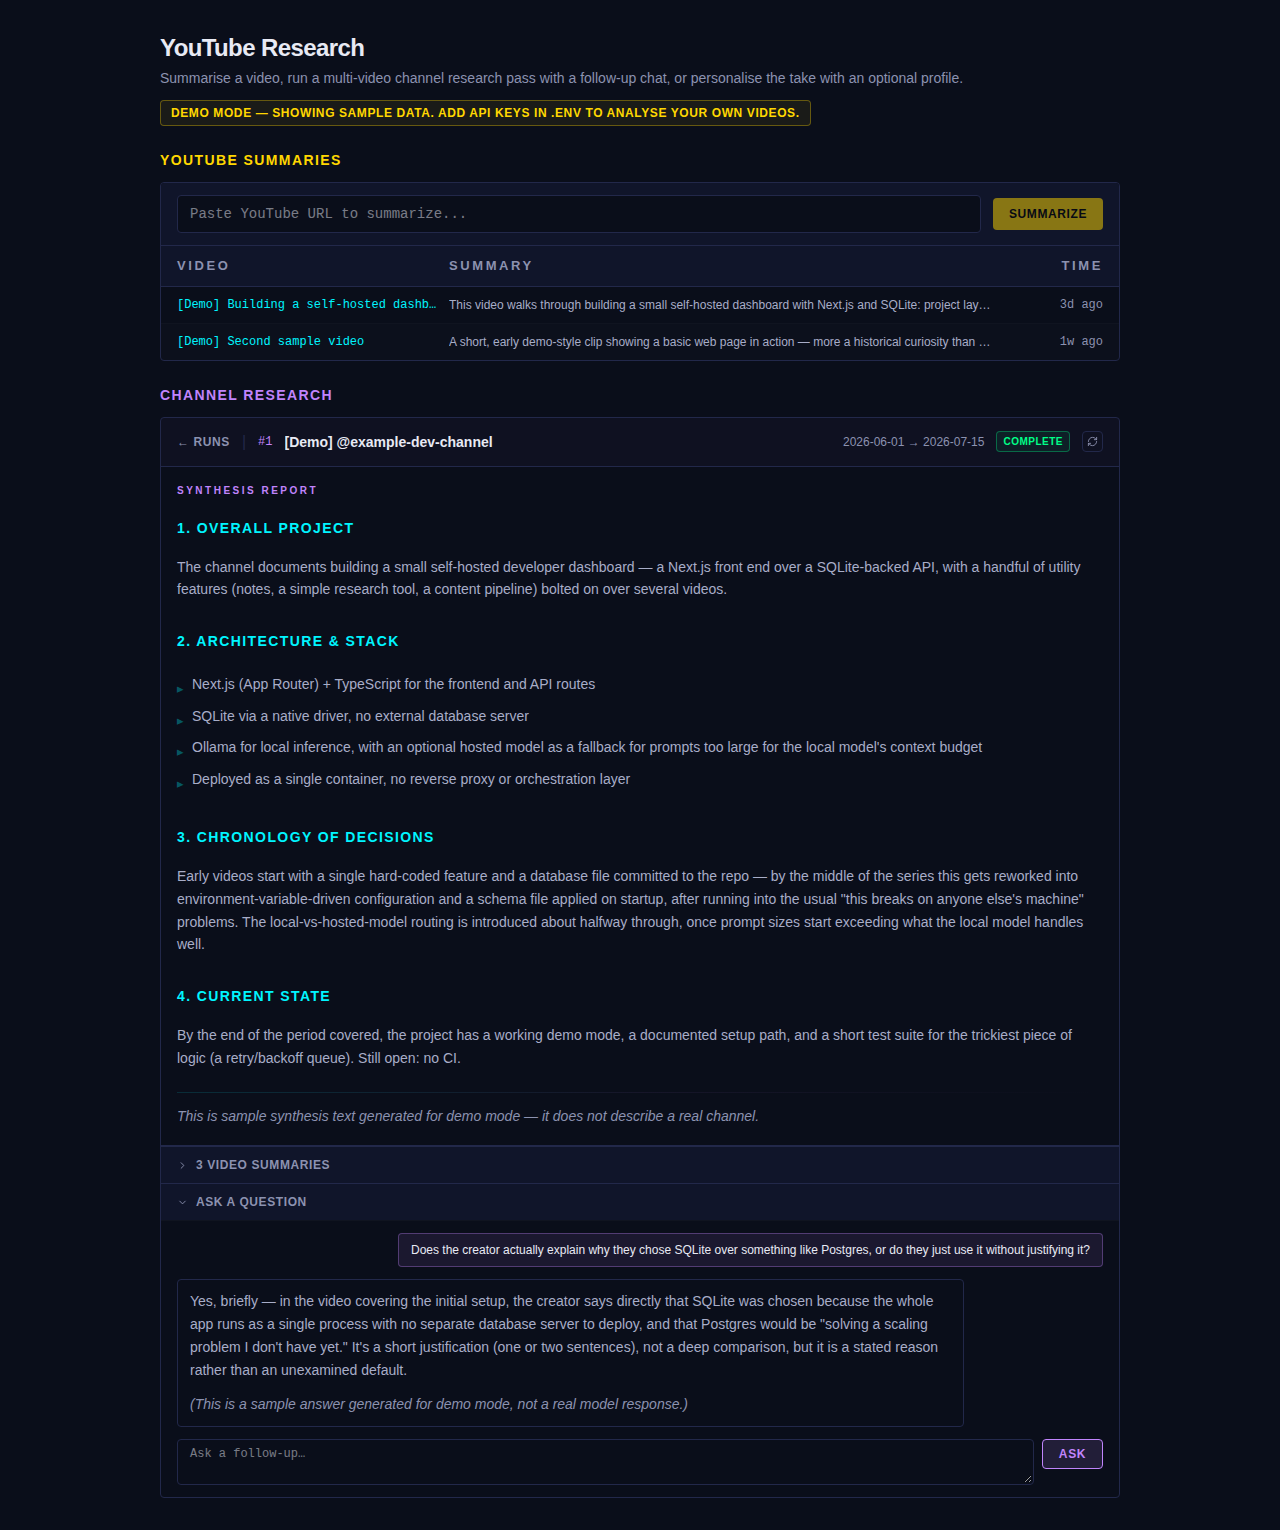
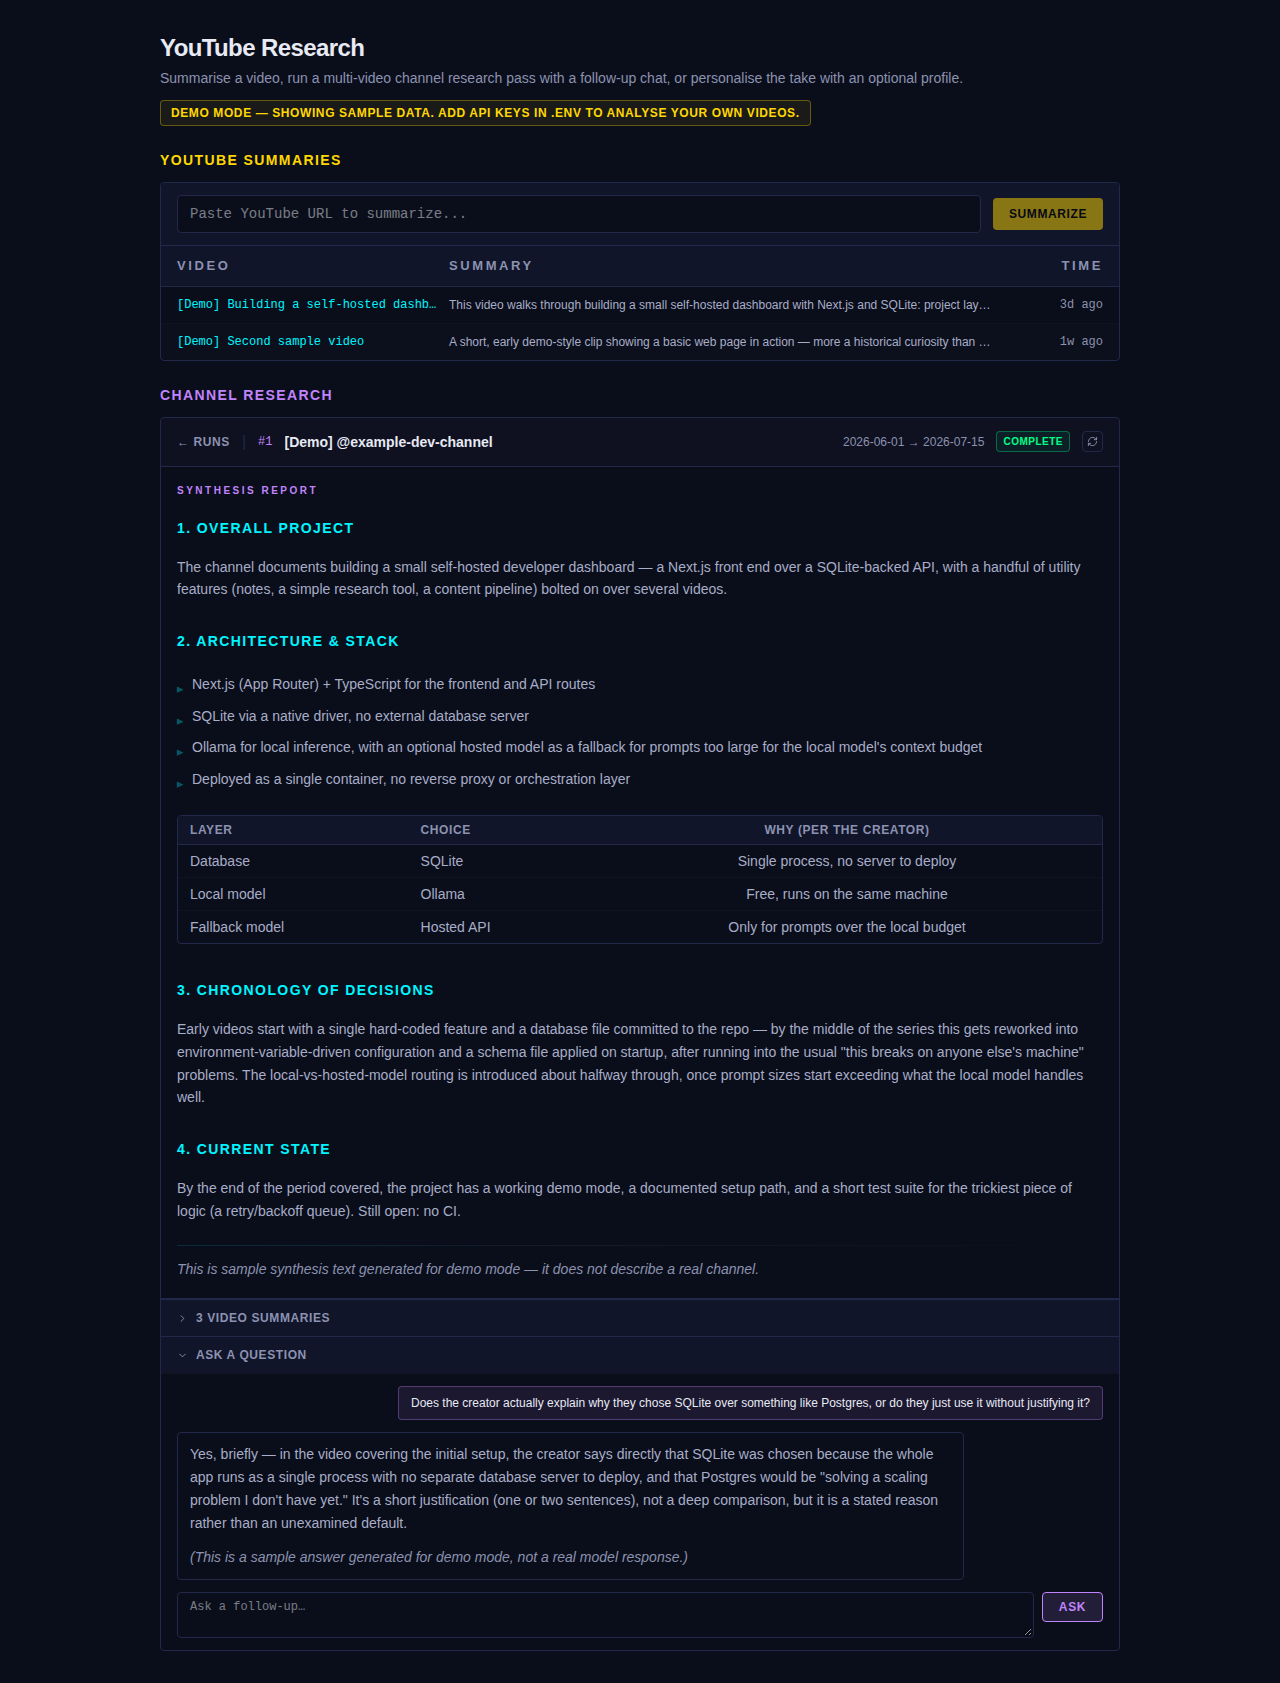
Harden DATA_DIR creation, add GFM table support to MarkdownBlock
- queue-db.ts and analysis-cache.ts's read/delete paths had no directory
  creation of their own (only db.ts and analysis-cache.ts's write path
  did) — they worked in practice because dbPath/STORE_PATHS always derive
  from db.ts, which creates it as a module-load side effect, but that's an
  implicit assumption, not a guarantee. Each now creates its own target
  directory (recursive, idempotent) before opening anything, independent
  of import order. instrumentation.ts also now creates DATA_DIR explicitly
  as the first thing it does on every server start, before the DEMO_MODE
  branch or the queue poller.
- MarkdownBlock didn't render GFM tables — pipe syntax just showed up as
  raw text. Added components/markdown-table.ts, a pure parser (header +
  separator-row detection, alignment markers, escaped pipes, short/long
  row normalisation) with 11 unit tests, since MarkdownBlock.tsx itself
  can't be imported into a plain node:test file (JSX isn't transformed by
  --experimental-strip-types). MarkdownBlock renders the result as a
  <table> in an overflow-x-auto wrapper, styled for the dark theme —
  verified at 390px that the wrapper scrolls internally without the page
  itself overflowing.
- Added a small table to the demo seed synthesis so the feature shows up
  in demo mode without configuring anything.
- Re-checked the Channel Research channel input for the literal-value-vs-
  placeholder bug from the previous pass — already fixed, no literal value
[…]

Changed region(s): [[0.125, 0.0, 0.875, 0.983], [0.6562, 0.3686, 0.8438, 0.3993], [0.8125, 0.9216, 0.875, 0.983]]

diff --git a/components/markdown-table.test.ts b/components/markdown-table.test.ts
@@ -1,0 +1,98 @@
+import { test } from 'node:test';
+import assert from 'node:assert/strict';
+import { parseGfmTable } from './markdown-table.ts';
+
+test('parses a basic GFM table with leading/trailing pipes', () => {
+  const lines = [
+    '| Name | Role |',
+    '| --- | --- |',
+    '| Ada | Engineer |',
+    '| Grace | Admiral |',
+  ];
+  const table = parseGfmTable(lines, 0);
+  assert.ok(table);
+  assert.deepEqual(table.header, ['Name', 'Role']);
+  assert.deepEqual(table.aligns, [null, null]);
+  assert.deepEqual(table.rows, [['Ada', 'Engineer'], ['Grace', 'Admiral']]);
+  assert.equal(table.lineCount, 4);
+});
+
+test('parses a table without leading/trailing pipes', () => {
+  const lines = ['Name | Role', '--- | ---', 'Ada | Engineer'];
+  const table = parseGfmTable(lines, 0);
+  assert.ok(table);
+  assert.deepEqual(table.header, ['Name', 'Role']);
+  assert.deepEqual(table.rows, [['Ada', 'Engineer']]);
+});
+
+test('reads column alignment markers', () => {
+  const lines = [
+    '| Left | Center | Right |',
+    '| :--- | :---: | ---: |',
+    '| a | b | c |',
+  ];
+  const table = parseGfmTable(lines, 0);
+  assert.ok(table);
+  assert.deepEqual(table.aligns, ['left', 'center', 'right']);
+});
+
+test('stops at the first blank line', () => {
+  const lines = [
+    '| A | B |',
+    '| --- | --- |',
+    '| 1 | 2 |',
+    '',
+    '| C | D |',
+  ];
+  const table = parseGfmTable(lines, 0);
+  assert.ok(table);
+  assert.equal(table.rows.length, 1);
+  assert.equal(table.lineCount, 3); // header + separator + one row, not the blank line
+});
+
+test('stops at the first non-pipe line', () => {
+  const lines = ['| A | B |', '| --- | --- |', '| 1 | 2 |', 'not a table row'];
+  const table = parseGfmTable(lines, 0);
+  assert.ok(table);
+  assert.equal(table.rows.length, 1);
+});
+
+test('pads short rows and drops extra cells to match the header width', () => {
+  const lines = [
+    '| A | B | C |',
+    '| --- | --- | --- |',
+    '| only-one |',
+    '| 1 | 2 | 3 | 4 | 5 |',
+  ];
+  const table = parseGfmTable(lines, 0);
+  assert.ok(table);
+  assert.deepEqual(table.rows[0], ['only-one', '', '']);
+  assert.deepEqual(table.rows[1], ['1', '2', '3']);
+});
+
+test('honours an escaped pipe inside a cell', () => {
+  const lines = ['| A | B |', '| --- | --- |', '| a\\|b | c |'];
+  const table = parseGfmTable(lines, 0);
+  assert.ok(table);
+  assert.deepEqual(table.rows[0], ['a|b', 'c']);
+});
+
+test('returns null when there is no separator row', () => {
+  const lines = ['| A | B |', 'not a separator', '| 1 | 2 |'];
+  assert.equal(parseGfmTable(lines, 0), null);
+});
+
+test('returns null when the separator column count does not match the header', () => {
+  const lines = ['| A | B | C |', '| --- | --- |', '| 1 | 2 | 3 |'];
+  assert.equal(parseGfmTable(lines, 0), null);
+});
+
+test('returns null for a bare horizontal-rule line (not a 2-line table header+separator)', () => {
+  const lines = ['---', 'some text'];
+  assert.equal(parseGfmTable(lines, 0), null);
+});
+
+test('returns null at the end of the input with no room for a separator row', () => {
+  const lines = ['| A | B |'];
+  assert.equal(parseGfmTable(lines, 0), null);
+});

diff --git a/components/markdown-table.ts b/components/markdown-table.ts
@@ -1,0 +1,93 @@
+/**
+ * GFM table detection/parsing — a pure, dependency-free function so it can
+ * be unit tested directly (MarkdownBlock.tsx can't be imported from a plain
+ * node:test file, since this repo's test runner strips TypeScript types but
+ * doesn't transform JSX).
+ */
+
+export type ColumnAlign = 'left' | 'center' | 'right' | null;
+
+export interface ParsedTable {
+  header: string[];
+  aligns: ColumnAlign[];
+  rows: string[][];
+  /** Number of source lines consumed, starting at the index passed in. */
+  lineCount: number;
+}
+
+/** Splits a pipe-delimited row into trimmed cells, honouring `\|` as an escaped, literal pipe. */
+function splitRow(line: string): string[] {
+  let s = line.trim();
+  if (s.startsWith('|')) s = s.slice(1);
+  if (s.endsWith('|') && !s.endsWith('\\|')) s = s.slice(0, -1);
+
+  const cells: string[] = [];
+  let cur = '';
+  for (let i = 0; i < s.length; i++) {
+    const c = s[i];
+    if (c === '\\' && s[i + 1] === '|') {
+      cur += '|';
+      i++;
+      continue;
+    }
+    if (c === '|') {
+      cells.push(cur.trim());
+      cur = '';
+      continue;
+    }
+    cur += c;
+  }
+  cells.push(cur.trim());
+  return cells;
+}
+
+function alignFor(cell: string): ColumnAlign {
+  const left = cell.startsWith(':');
+  const right = cell.endsWith(':');
+  if (left && right) return 'center';
+  if (right) return 'right';
+  if (left) return 'left';
+  return null;
+}
+
+function isSeparatorRow(line: string): boolean {
+  const cells = splitRow(line);
+  if (cells.length === 0) return false;
+  return cells.every((c) => /^:?-+:?$/.test(c));
+}
+
+/**
+ * Detects a GFM table starting at lines[startIndex] (the header row), valid
+ * only if lines[startIndex + 1] is a matching separator row (e.g. `| --- |
+ * :--- | ---: |`) with the same column count as the header. Returns null if
+ * there's no table there. Body rows are collected until a blank line or a
+ * line with no pipe at all; each is normalised to the header's column count
+ * (missing trailing cells become '', extra cells are dropped — matches
+ * common GFM renderer behaviour).
+ */
+export function parseGfmTable(lines: string[], startIndex: number): ParsedTable | null {
+  const headerLine = lines[startIndex];
+  const sepLine = lines[startIndex + 1];
+  if (headerLine == null || sepLine == null) return null;
+  if (!headerLine.includes('|')) return null;
+  if (!isSeparatorRow(sepLine)) return null;
+
+  const header = splitRow(headerLine);
+  const sepCells = splitRow(sepLine);
+  if (header.length === 0 || sepCells.length !== header.length) return null;
+
+  const aligns = sepCells.map(alignFor);
+
+  const rows: string[][] = [];
+  let i = startIndex + 2;
+  while (i < lines.length) {
+    const line = lines[i];
+    if (line.trim() === '' || !line.includes('|')) break;
+    const cells = splitRow(line).slice(0, header.length);
+    while (cells.length < header.length) cells.push('');
+    rows.push(cells);
+    i++;
+  }
+
+  return { header, aligns, rows, lineCount: i - startIndex };
+}

diff --git a/components/MarkdownBlock.tsx b/components/MarkdownBlock.tsx
@@ -1,4 +1,5 @@
 import React from 'react';
+import { parseGfmTable } from './markdown-table';
 
 function escRx(s: string) {
   return s.replace(/[.*+?^${}()|[\]\\]/g, '\\$&');
@@ -95,6 +96,55 @@ export default function MarkdownBlock({ content, highlight, prose }: Props) {
         </h4>
       );
       i++; continue;
+    }
+
+    // GFM table — a header row immediately followed by a valid separator
+    // row (e.g. `| --- | :---: | ---: |`).
+    if (line.includes('|')) {
+      const table = parseGfmTable(lines, i);
+      if (table) {
+        nodes.push(
+          <div key={i} className="my-2 w-full max-w-full overflow-x-auto rounded border" style={{ borderColor: 'var(--border)' }}>
+            <table className="text-sm border-collapse" style={{ minWidth: '100%' }}>
+              <thead>
+                <tr>
+                  {table.header.map((cell, ci) => (
+                    <th
+                      key={ci}
+                      className="px-3 py-1.5 text-xs font-bold tracking-wider uppercase whitespace-nowrap"
+                      style={{
+                        color: 'var(--text-dim)',
+                        background: 'var(--bg-panel)',
+                        borderBottom: '1px solid var(--border)',
+                        textAlign: table.aligns[ci] ?? 'left',
+                      }}
+                    >
+                      {renderInline(cell, highlight)}
+                    </th>
+                  ))}
+                </tr>
+              </thead>
+              <tbody>
+                {table.rows.map((row, ri) => (
+                  <tr key={ri} style={{ borderBottom: ri < table.rows.length - 1 ? '1px solid #ffffff07' : 'none' }}>
+                    {row.map((cell, ci) => (
+                      <td
+                        key={ci}
+                        className="px-3 py-1.5 align-top"
+                        style={{ color: 'var(--text-muted)', textAlign: table.aligns[ci] ?? 'left' }}
+                      >
+                        {renderInline(cell, highlight)}
+                      </td>
+                    ))}
+                  </tr>
+                ))}
+              </tbody>
+            </table>
+          </div>
+        );
+        i += table.lineCount;
+        continue;
+      }
     }
 
     // Collect consecutive list items

diff --git a/features/youtube/queue-db.ts b/features/youtube/queue-db.ts
@@ -1,4 +1,6 @@
 import Database from 'better-sqlite3';
+import { mkdirSync } from 'fs';
+import path from 'path';
 
 /**
  * DB access for the save-to-playlist queue poller's own queue_handoffs table.
@@ -7,6 +9,12 @@ import Database from 'better-sqlite3';
  * explicit argument so tests can point it at a temporary sqlite file instead
  * of the real database. Opens and closes a connection per call; the poller
  * runs at most once every few minutes, so this isn't a hot path.
+ *
+ * In production dbPath is always db.ts's DB_PATH, whose directory db.ts
+ * already creates on import — but this module makes no assumption about
+ * import order or where dbPath came from, so it creates the directory
+ * itself too, every time, before opening anything. mkdirSync with
+ * recursive:true is a cheap no-op once the directory exists.
  */
 
 export type QueueStatus = 'pending' | 'processing' | 'done' | 'failed';
@@ -22,6 +30,7 @@ export interface QueueHandoff {
 }
 
 function withDb<T>(dbPath: string, fn: (db: Database.Database) => T): T {
+  mkdirSync(path.dirname(dbPath), { recursive: true });
   const db = new Database(dbPath);
   try {
     return fn(db);

diff --git a/features/youtube/demo-seed.ts b/features/youtube/demo-seed.ts
@@ -28,6 +28,12 @@ The channel documents building a small self-hosted developer dashboard — a Nex
 - Ollama for local inference, with an optional hosted model as a fallback for prompts too large for the local model's context budget
 - Deployed as a single container, no reverse proxy or orchestration layer
 
+| Layer | Choice | Why (per the creator) |
+| --- | --- | :---: |
+| Database | SQLite | Single process, no server to deploy |
+| Local model | Ollama | Free, runs on the same machine |
+| Fallback model | Hosted API | Only for prompts over the local budget |
+
 ## 3. Chronology of Decisions
 
 Early videos start with a single hard-coded feature and a database file committed to the repo — by the middle of the series this gets reworked into environment-variable-driven configuration and a schema file applied on startup, after running into the usual "this breaks on anyone else's machine" problems. The local-vs-hosted-model routing is introduced about halfway through, once prompt sizes start exceeding what the local model handles well.

diff --git a/instrumentation.ts b/instrumentation.ts
@@ -1,5 +1,8 @@
 /**
  * Next.js server-start hook. Used to:
+ *  - create DATA_DIR if it doesn't exist yet, before anything below (or any
+ *    API route, which all go through the same db.ts/queue-db.ts/
+ *    analysis-cache.ts modules) tries to open a file inside it
  *  - seed demo data once, if DEMO_MODE=true (see features/youtube/demo-seed.ts)
  *  - start the in-process YouTube save-to-playlist queue poller, if it's
  *    configured (features/youtube/queue-poller.ts) — no separate
@@ -9,6 +12,11 @@
  */
 export async function register() {
   if (process.env.NEXT_RUNTIME === 'nodejs') {
+    const { mkdirSync } = await import('fs');
+    const path = await import('path');
+    const dataDir = process.env.DATA_DIR ?? path.join(process.cwd(), 'data');
+    mkdirSync(dataDir, { recursive: true });
+
     if (process.env.DEMO_MODE === 'true') {
       const { seedDemoData, seedDemoAnalysisCache } = await import('@/features/youtube/demo-seed');
       seedDemoData();

diff --git a/features/youtube/analysis-cache.ts b/features/youtube/analysis-cache.ts
@@ -19,6 +19,7 @@ export type AnalysesById = Record<string, CachedAnalysis>;
 
 export async function readAnalyses(store: AnalysisStore): Promise<AnalysesById> {
   try {
+    await fs.mkdir(path.dirname(STORE_PATHS[store]), { recursive: true });
     const raw = await fs.readFile(STORE_PATHS[store], 'utf-8');
     const parsed = JSON.parse(raw);
     if (parsed && typeof parsed === 'object' && !Array.isArray(parsed)) {
@@ -46,6 +47,7 @@ export async function writeAnalysis(
 
 export async function deleteAnalysis(store: AnalysisStore, id: string): Promise<void> {
   const target = STORE_PATHS[store];
+  await fs.mkdir(path.dirname(target), { recursive: true });
   const current = await readAnalyses(store);
   if (!(id in current)) return;
   delete current[id];
